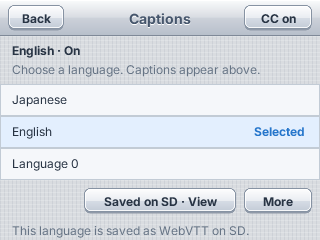
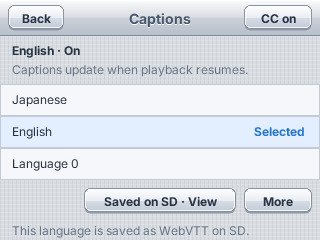
fix(3ds): retain the paused picture during caption changes

Changed region(s): [[0.0625, 0.2625, 0.8125, 0.3208]]

diff --git a/app/dual-screen.tsx b/app/dual-screen.tsx
@@ -65,6 +65,7 @@ export default function DualScreen(props: { store: YoutubeStore; artwork: Artwor
   const [ccEnabled, setCcEnabled] = createSignal(true), [captionVisible, setCaptionVisible] = createSignal(false);
   let captionPlane: NodeMirror | undefined, captionHandle = -1;
   const [snapshot, setSnapshot] = createSignal<MediaStatus | null>(null);
+  const [pictureVisible, setPictureVisible] = createSignal(false);
   const [volume, setVolume] = createSignal(0.8);
   const [error, setError] = createSignal("");
   let plane: NodeMirror | undefined, frame = 0, lastSerial = -1;
@@ -75,7 +76,7 @@ export default function DualScreen(props: { store: YoutubeStore; artwork: Artwor
     const player = untrack(props.store.player);
     if (!player?.source) return;
     setError(""); setSnapshot(null);
-    if (untrack(props.store.playReason) === "play") setPanel("controls");
+    if (untrack(props.store.playReason) === "play") { setPanel("controls"); setPictureVisible(false); }
     setCaptionVisible(false);
     if (captionHandle >= 0) getOps().freeTexture?.(captionHandle);
     captionHandle = -1;
@@ -88,6 +89,7 @@ export default function DualScreen(props: { store: YoutubeStore; artwork: Artwor
     downloads.tick();
     if (++frame % 6) return;
     const status = native.status(); setSnapshot(status);
+    if (status.phase !== "opening" && status.presentedFrames > 0) setPictureVisible(true);
     const cue = native.caption();
     if (cue) {
       const previous = captionHandle;
@@ -118,7 +120,7 @@ export default function DualScreen(props: { store: YoutubeStore; artwork: Artwor
   return <>
     <View style={{ width: top.w, height: top.h, bgColor: "#000000" }}>
       <Image nodeRef={n => { plane = n; getOps().setImage(n.id, native.texture()); }}
-        style={{ width: top.w, height: top.h, opacity: props.store.player() && (snapshot()?.presentedFrames ?? 0) > 0 ? 1 : 0 }} />
+        style={{ width: top.w, height: top.h, opacity: props.store.player() && pictureVisible() ? 1 : 0 }} />
       <Show when={ccEnabled() && captionVisible() && props.store.player() && !props.store.captionChange() && (snapshot()?.presentedFrames ?? 0) > 0}>
         <View class="absolute rounded-sm" style={{ insetL: 68, insetT: 200, width: 264, height: 36, bgColor: "#000000dd" }}>
           <Image nodeRef={n => { captionPlane = n; getOps().setImage(n.id, captionHandle); }} style={{ width: 256, height: 32, marginL: 4, marginT: 2 }} />
@@ -130,7 +132,7 @@ export default function DualScreen(props: { store: YoutubeStore; artwork: Artwor
           <Text class="text-sm" style={{ textColor: "#abb3bd" }}>Find something to watch below.</Text>
         </View>
       </Show>
-      <Show when={props.store.player() && !(snapshot()?.presentedFrames)}>
+      <Show when={props.store.player() && !pictureVisible()}>
         <View class="absolute inset-0 items-center justify-center">
           <Text class="text-sm" style={{ textColor: "#ffffff" }}>{error() ? "PLAYBACK UNAVAILABLE" : "BUFFERING VIDEO…"}</Text>
         </View>
@@ -382,7 +384,7 @@ function CaptionPanel(props: { store: YoutubeStore; downloads: Downloads; enable
   };
   const retry = () => { const track = props.store.captionChange()?.track || player().captionTrack; if (track) choose(track); else load(offset()); };
   const heading = () => switching() ? "Switching captions…" : failure() ? "Captions unavailable" : player().hasCaptions ? `${selectedLabel()} · ${props.enabled() ? "On" : "Off"}` : "No captions for this video";
-  const hint = () => loadError() || (switching() ? "Applying your language at this position." : failure() ? "Try again, or choose another language." : loading() ? "Loading languages…" : !player().hasCaptions ? local() ? "This copy was saved without captions." : "No language or subtitle file is available." : local() ? "Included with your offline video." : props.enabled() ? "Choose a language. Captions appear above." : "Captions hidden. Your language is kept.");
+  const hint = () => loadError() || (switching() ? "Applying your language at this position." : failure() ? "Try again, or choose another language." : loading() ? "Loading languages…" : !player().hasCaptions ? local() ? "This copy was saved without captions." : "No language or subtitle file is available." : !props.enabled() ? "Captions hidden. Your language is kept." : local() ? "Included with your offline video." : !player().playing ? "Captions update when playback resumes." : "Choose a language. Captions appear above.");
   return <View style={{ width: 320, height: 240 }}>
     <Navigation title="Captions"><Tile x={8} y={5} w={56} h={26} label="Back" onPress={props.back} />
       <Tile x={244} y={5} w={68} h={26} label={props.enabled() && player().hasCaptions ? "CC on" : "CC off"} disabled={!player().hasCaptions || switching()} onPress={props.toggle} /></Navigation>

diff --git a/test/dual-screen.test.ts b/test/dual-screen.test.ts
@@ -15,6 +15,7 @@ test("auxiliary keyboard, playback controls, local scrubbing and reconnect use t
   const globals = globalThis as Record<string, any>, replies: string[] = [], commands: any[] = [];
   let session = 1, opened = 0, closed = 0, paused = false, volume = 1, position = 0;
   let phase = "idle", job = 0, holdPlayReply = false, playFailure = "";
+  let presentedFrames = 0;
   let trackFailure = false, noCaptions = false;
   const tracks = [{ id: "ja", label: "Japanese" }, { id: "en", label: "English" }, ...Array.from({ length: 8 }, (_, i) => ({ id: `lang${i}`, label: `Language ${i}` }))];
   const trackRequests: number[] = [];
@@ -105,8 +106,8 @@ test("auxiliary keyboard, playback controls, local scrubbing and reconnect use t
     },
   };
   globals.media = {
-    open: () => { opened++; phase = "playing"; paused = false; return true; },
-    openLocal: (key: string, milliseconds: number) => { localOpens.push({ key, milliseconds }); opened++; phase = "playing"; paused = false; position = milliseconds / 1000; return true; },
+    open: () => { presentedFrames = paused ? 0 : 30; opened++; phase = "playing"; paused = false; return true; },
+    openLocal: (key: string, milliseconds: number) => { localOpens.push({ key, milliseconds }); opened++; presentedFrames = 30; phase = "playing"; paused = false; position = milliseconds / 1000; return true; },
     caption: () => { const value = captionNext; captionNext = null; return value ? JSON.stringify(value) : null; },
     download: (...args: any[]) => { transfers.push(args); downloadPhase = "downloading"; return true; },
     cancelDownload: () => { downloadPhase = "cancelled"; },
@@ -116,7 +117,7 @@ test("auxiliary keyboard, playback controls, local scrubbing and reconnect use t
     removeDownload: (key: string) => { savedEntries = savedEntries.filter(entry => entry.key !== key); libraryDirty = true; return true; }, close: () => { closed++; phase = "idle"; },
     paused: (value: boolean) => { paused = value; }, volume: (value: number) => { volume = value; }, texture: () => texture,
     status: () => JSON.stringify({ phase: paused && phase === "playing" ? "paused" : phase, positionMs: position * 1000, bufferedMs: 300,
-      decodedFrames: phase === "playing" ? 30 : 0, presentedFrames: phase === "playing" ? 30 : 0,
+      decodedFrames: phase === "playing" ? presentedFrames : 0, presentedFrames: phase === "playing" ? presentedFrames : 0,
       droppedFrames: 0, receivedBytes: 10000, decodeMaxUs: 1000, audioUnderruns: 0, hardware: true, error: "" }),
   };
   (0, eval)(await Bun.file("vendor/pocketjs/dist/3ds/guest/pocket-youtube.js").text());
@@ -225,6 +226,11 @@ test("auxiliary keyboard, playback controls, local scrubbing and reconnect use t
   holdPlayReply = false; step(60);
   expect(commands.filter(c => c.t === "play").at(-1).track).toBe("en");
   expect(hasText("English · On")).toBe(true); expect(paused).toBe(true);
+  // Native receives no new frame while paused. Retain the previous picture
+  // until resume instead of hiding the video behind an endless buffering view.
+  expect(presentedFrames).toBe(0);
+  expect(wasm.render().slice((120 * 400 + 200) * 4, (120 * 400 + 200) * 4 + 3)).not.toEqual(new Uint8Array([0, 0, 0]));
+  expect(hasText("Captions update when playback resumes")).toBe(true);
   await capture("caption-applied");
   const beforeToggle = opened;
   tap(272, 20); expect(hasText("English · Off")).toBe(true);

diff --git a/docs/3DS.md b/docs/3DS.md
@@ -76,6 +76,8 @@ The default track prefers source-language subtitles, with an automatic track
 as fallback. **Language selection preserves playback position and pause state**.
 The panel stays open while the language is applied, marks the selected track,
 and offers Retry after failure. CC off hides captions and keeps the selection.
+Changing language while paused retains the last video frame; caption display
+updates when playback resumes.
 Track loading retries on reconnect; videos without captions show an empty state.
 Saving opens progress; Done returns to the caption panel and shows Saved on SD.
 Back and the B button return through file details, downloads and captions in order.
